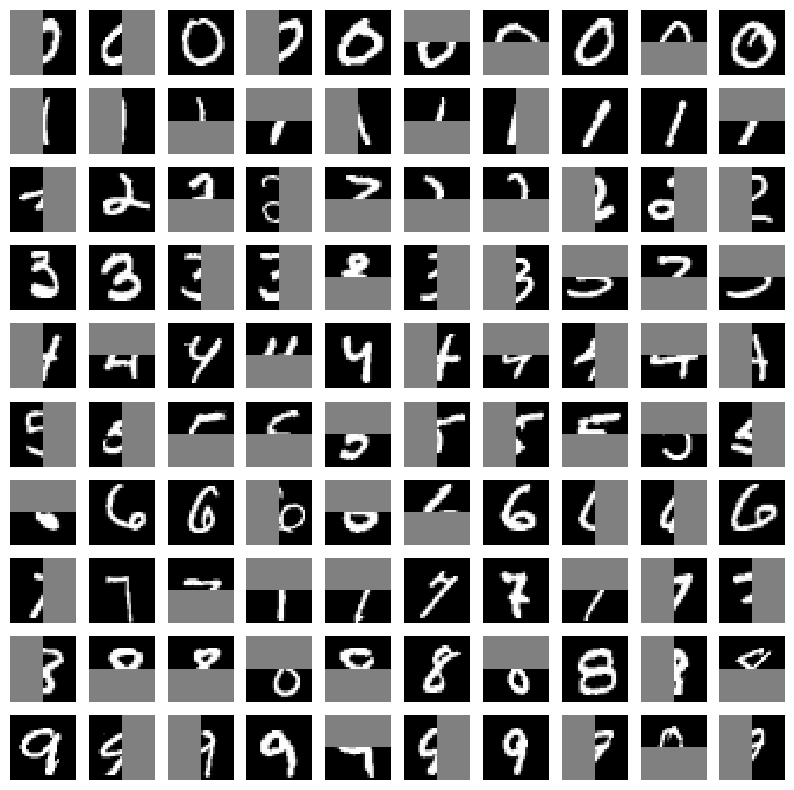
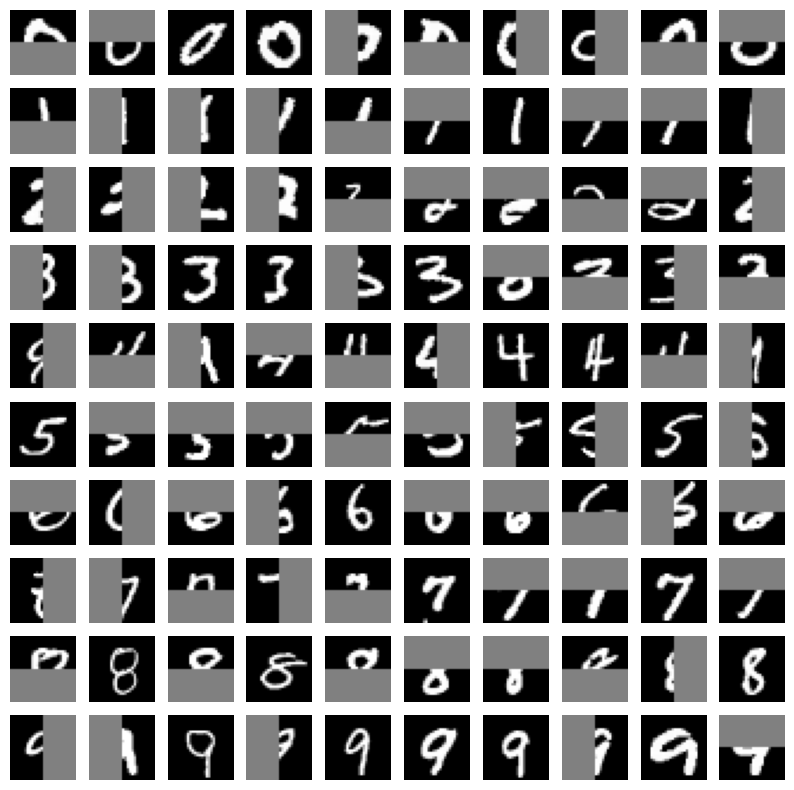
Fix bugs
- Fix bugs in `get_mnist_dataset.py`.
- Rename `kNN_matrix_completion.py` to `knn_matrix_completion.py`.
- Add `Predicted Test Data K=10.png` output image.

diff --git a/vaes_gui.py b/vaes_gui.py
@@ -58,33 +58,33 @@ def run(
         learning_rate,
         batch_size,
         K,
-        digits_or_fashion_mnist,
-        rgb_or_grayscale_cifar,
+        mnist_digits_or_fashion,
+        cifar_rgb_or_grayscale,
         omniglot_language,
-        missing_values
+        missing_values_construction
 ):
     if 'knn' not in algorithm.lower():
         arguments = [latent_dim, epochs, batch_size]
         if 'keras' not in algorithm.lower():
             arguments.extend([learning_rate])
         if 'missing' in algorithm.lower() and dataset is not None and 'movielens' not in dataset.lower():
-            arguments.extend([missing_values])
+            arguments.extend([missing_values_construction])
         if dataset_var.get() == 'mnist':
-            arguments.extend([digits_or_fashion_mnist])
+            arguments.extend([mnist_digits_or_fashion])
         elif dataset_var.get() == 'cifar10':
-            arguments.extend([rgb_or_grayscale_cifar])
+            arguments.extend([cifar_rgb_or_grayscale])
         elif dataset_var.get() == 'omniglot':
             arguments.extend([omniglot_language])
     else:
         arguments = [K]
         if 'missing' in algorithm.lower() and dataset is not None and 'movielens' not in dataset.lower():
-            arguments.extend([missing_values_var])
+            arguments.extend([missing_values_construction])
         if dataset_var.get() == 'mnist':
-            arguments.extend([digits_or_fashion_mnist_var])
+            arguments.extend([mnist_digits_or_fashion])
         elif dataset_var.get() == 'cifar10':
-            arguments.extend([rgb_or_grayscale_cifar_var])
+            arguments.extend([cifar_rgb_or_grayscale])
         elif dataset_var.get() == 'omniglot':
-            arguments.extend([omniglot_language_var])
+            arguments.extend([omniglot_language])
 
     print('********************')
     print(f'Running {algorithm}.{dataset}')
@@ -557,10 +557,10 @@ if __name__ == '__main__':
     batch_size_var = tk.StringVar(root, '250')
     K_var = tk.IntVar(root, 10)
 
-    digits_or_fashion_mnist_var = tk.StringVar(root, 'digits')
-    rgb_or_grayscale_cifar_var = tk.StringVar(root, 'grayscale')
+    mnist_digits_or_fashion_var = tk.StringVar(root, 'digits')
+    cifar_rgb_or_grayscale_var = tk.StringVar(root, 'grayscale')
     omniglot_language_var = tk.StringVar(root, 'english')
-    missing_values_var = tk.StringVar(root, 'structured')
+    missing_values_construction_var = tk.StringVar(root, 'structured')
 
     latent_dim_label = tk.Label(vaeFrame, text='latent dimension:')
     latent_dim_label.pack()
@@ -653,7 +653,7 @@ if __name__ == '__main__':
             mnistDatasetFrame,
             text=value,
             padx=2,
-            variable=digits_or_fashion_mnist_var,
+            variable=mnist_digits_or_fashion_var,
             value=value.lower()
         ).pack(anchor=tk.CENTER)
 
@@ -665,7 +665,7 @@ if __name__ == '__main__':
             cifarDatasetFrame,
             text=value,
             padx=2,
-            variable=rgb_or_grayscale_cifar_var,
+            variable=cifar_rgb_or_grayscale_var,
             value=value.lower()
         ).pack(anchor=tk.CENTER)
 
@@ -689,7 +689,7 @@ if __name__ == '__main__':
             missingValuesFrame,
             text=value,
             padx=2,
-            variable=missing_values_var,
+            variable=missing_values_construction_var,
             value=value.lower()
         ).pack(anchor=tk.CENTER)
     empty_line_label = tk.Label(missingValuesFrame, text='\r')
@@ -787,10 +787,10 @@ if __name__ == '__main__':
             learning_rate_var.get(),
             batch_size_var.get(),
             K_var.get(),
-            digits_or_fashion_mnist_var.get(),
-            rgb_or_grayscale_cifar_var.get(),
+            mnist_digits_or_fashion_var.get(),
+            cifar_rgb_or_grayscale_var.get(),
             omniglot_language_var.get(),
-            missing_values_var.get()
+            missing_values_construction_var.get()
         )
     )
     runButton.pack(side=tk.BOTTOM)

diff --git a/src/kNNMissingValues/mnist.py b/src/kNNMissingValues/mnist.py
@@ -5,7 +5,8 @@ import matplotlib.pyplot as plt
 import numpy as np
 
 from src.Utilities.constants import *
-from src.Utilities.kNN_matrix_completion import kNNMatrixCompletion
+from src.Utilities.get_mnist_dataset import get_mnist_dataset
+from src.Utilities.knn_matrix_completion import kNNMatrixCompletion
 from src.Utilities.plot_dataset_samples import plot_mnist_or_omniglot_data
 from src.Utilities.utils import reduce_data, construct_missing_data, get_non_zero_percentage, rmse, mae
 
@@ -20,7 +21,7 @@ def mnist(K=10, structured_or_random='structured', digits_or_fashion='digits'):
         output_images_path = output_img_base_path + 'kNNMissingValues/fashion_mnist'
         dataset_path = fashion_mnist_dataset_path
 
-    mnist = load_data(dataset_path, one_hot=True)
+    mnist = get_mnist_dataset(dataset_path)
 
     X_train = mnist[0][0]
     X_train.reshape((-1, 784))
@@ -43,17 +44,13 @@ def mnist(K=10, structured_or_random='structured', digits_or_fashion='digits'):
 
     # build train data
     print('Building TRAIN data...')
-    y_train = np.argmax(t_train, axis=1)
     # reduce the number of train examples from 55000 to 10000
     X_train, y_train, _ = reduce_data(X_train, X_train.shape[0], 10000, y_train)
-    # X_train = binarize_data(X_train)
 
     # build test data
     print('Building TEST data...')
-    y_test = np.argmax(t_test, axis=1)
     # reduce the number of test examples from 10000 to 250
     X_test, y_test, _ = reduce_data(X_test, X_test.shape[0], 250, y_test)
-    # X_test = binarize_data(X_test)
 
     # construct data with missing values
     X_train_missing, X_train, y_train = construct_missing_data(

diff --git a/src/kNNMissingValues/binarized_mnist.py b/src/kNNMissingValues/binarized_mnist.py
@@ -6,7 +6,7 @@ import numpy as np
 
 from src.Utilities.constants import *
 from src.Utilities.get_binarized_mnist_dataset import get_binarized_mnist_dataset, get_binarized_mnist_labels, obtain
-from src.Utilities.kNN_matrix_completion import kNNMatrixCompletion
+from src.Utilities.knn_matrix_completion import kNNMatrixCompletion
 from src.Utilities.plot_dataset_samples import plot_mnist_or_omniglot_data
 from src.Utilities.utils import reduce_data, construct_missing_data, get_non_zero_percentage, rmse, mae
 
@@ -69,7 +69,6 @@ def binarized_mnist(K=10, structured_or_random='structured'):
     print('non missing values percentage in the TEST data: ' + str(percentage) + ' %')
 
     # convert variables to numpy matrices
-    X_train = np.array(X_train)
     X_test_missing = np.array(X_test_missing)
     y_test = np.array(y_test)
 

diff --git a/src/kNNMissingValues/cifar10.py b/src/kNNMissingValues/cifar10.py
@@ -6,7 +6,7 @@ import numpy as np
 
 from src.Utilities.constants import *
 from src.Utilities.get_cifar10_dataset import get_cifar10_dataset
-from src.Utilities.kNN_matrix_completion import kNNMatrixCompletion
+from src.Utilities.knn_matrix_completion import kNNMatrixCompletion
 from src.Utilities.plot_dataset_samples import plot_cifar10_data
 from src.Utilities.utils import reduce_data, construct_missing_data, get_non_zero_percentage, rmse, mae
 

diff --git a/src/kNNMissingValues/omniglot.py b/src/kNNMissingValues/omniglot.py
@@ -6,7 +6,7 @@ import numpy as np
 
 from src.Utilities.constants import *
 from src.Utilities.get_omniglot_dataset import get_omniglot_dataset
-from src.Utilities.kNN_matrix_completion import kNNMatrixCompletion
+from src.Utilities.knn_matrix_completion import kNNMatrixCompletion
 from src.Utilities.plot_dataset_samples import plot_mnist_or_omniglot_data
 from src.Utilities.utils import construct_missing_data, get_non_zero_percentage, rmse, mae
 

diff --git a/src/kNNMissingValues/yale_faces.py b/src/kNNMissingValues/yale_faces.py
@@ -6,7 +6,7 @@ import numpy as np
 
 from src.Utilities.constants import *
 from src.Utilities.get_yale_faces_dataset import get_yale_faces_dataset
-from src.Utilities.kNN_matrix_completion import kNNMatrixCompletion
+from src.Utilities.knn_matrix_completion import kNNMatrixCompletion
 from src.Utilities.plot_dataset_samples import plot_yale_faces
 from src.Utilities.utils import construct_missing_data, get_non_zero_percentage, rmse, mae
 

diff --git a/src/kNNMissingValues/orl_faces.py b/src/kNNMissingValues/orl_faces.py
@@ -6,7 +6,7 @@ import numpy as np
 
 from src.Utilities.constants import *
 from src.Utilities.get_orl_faces_dataset import get_orl_faces_dataset
-from src.Utilities.kNN_matrix_completion import kNNMatrixCompletion
+from src.Utilities.knn_matrix_completion import kNNMatrixCompletion
 from src.Utilities.plot_dataset_samples import plot_orl_faces
 from src.Utilities.utils import construct_missing_data, get_non_zero_percentage, rmse, mae
 

diff --git a/src/Utilities/get_mnist_dataset.py b/src/Utilities/get_mnist_dataset.py
@@ -74,7 +74,7 @@ def get_mnist_dataset(mnist_dataset_base_path):
     X_train = X_train / 255.  # normalize values between 0 and 1
 
     X_test, y_test = loadlocal_mnist(images_path=X_test_file_path, labels_path=y_test_file_path)
-    X_test = X_train / 255.  # normalize values between 0 and 1
+    X_test = X_test / 255.  # normalize values between 0 and 1
 
     os.remove(X_train_file_path)
     os.remove(y_train_file_path)

diff --git a/src/kNNMissingValues/movielens.py b/src/kNNMissingValues/movielens.py
@@ -7,7 +7,7 @@ import pandas as pd
 
 from src.Utilities.constants import *
 from src.Utilities.get_movielens_dataset import get_movielens_dataset
-from src.Utilities.kNN_matrix_completion import kNNMatrixCompletion
+from src.Utilities.knn_matrix_completion import kNNMatrixCompletion
 from src.Utilities.plot_dataset_samples import plot_movielens_data
 from src.Utilities.utils import get_non_zero_percentage, rmse, mae
 
